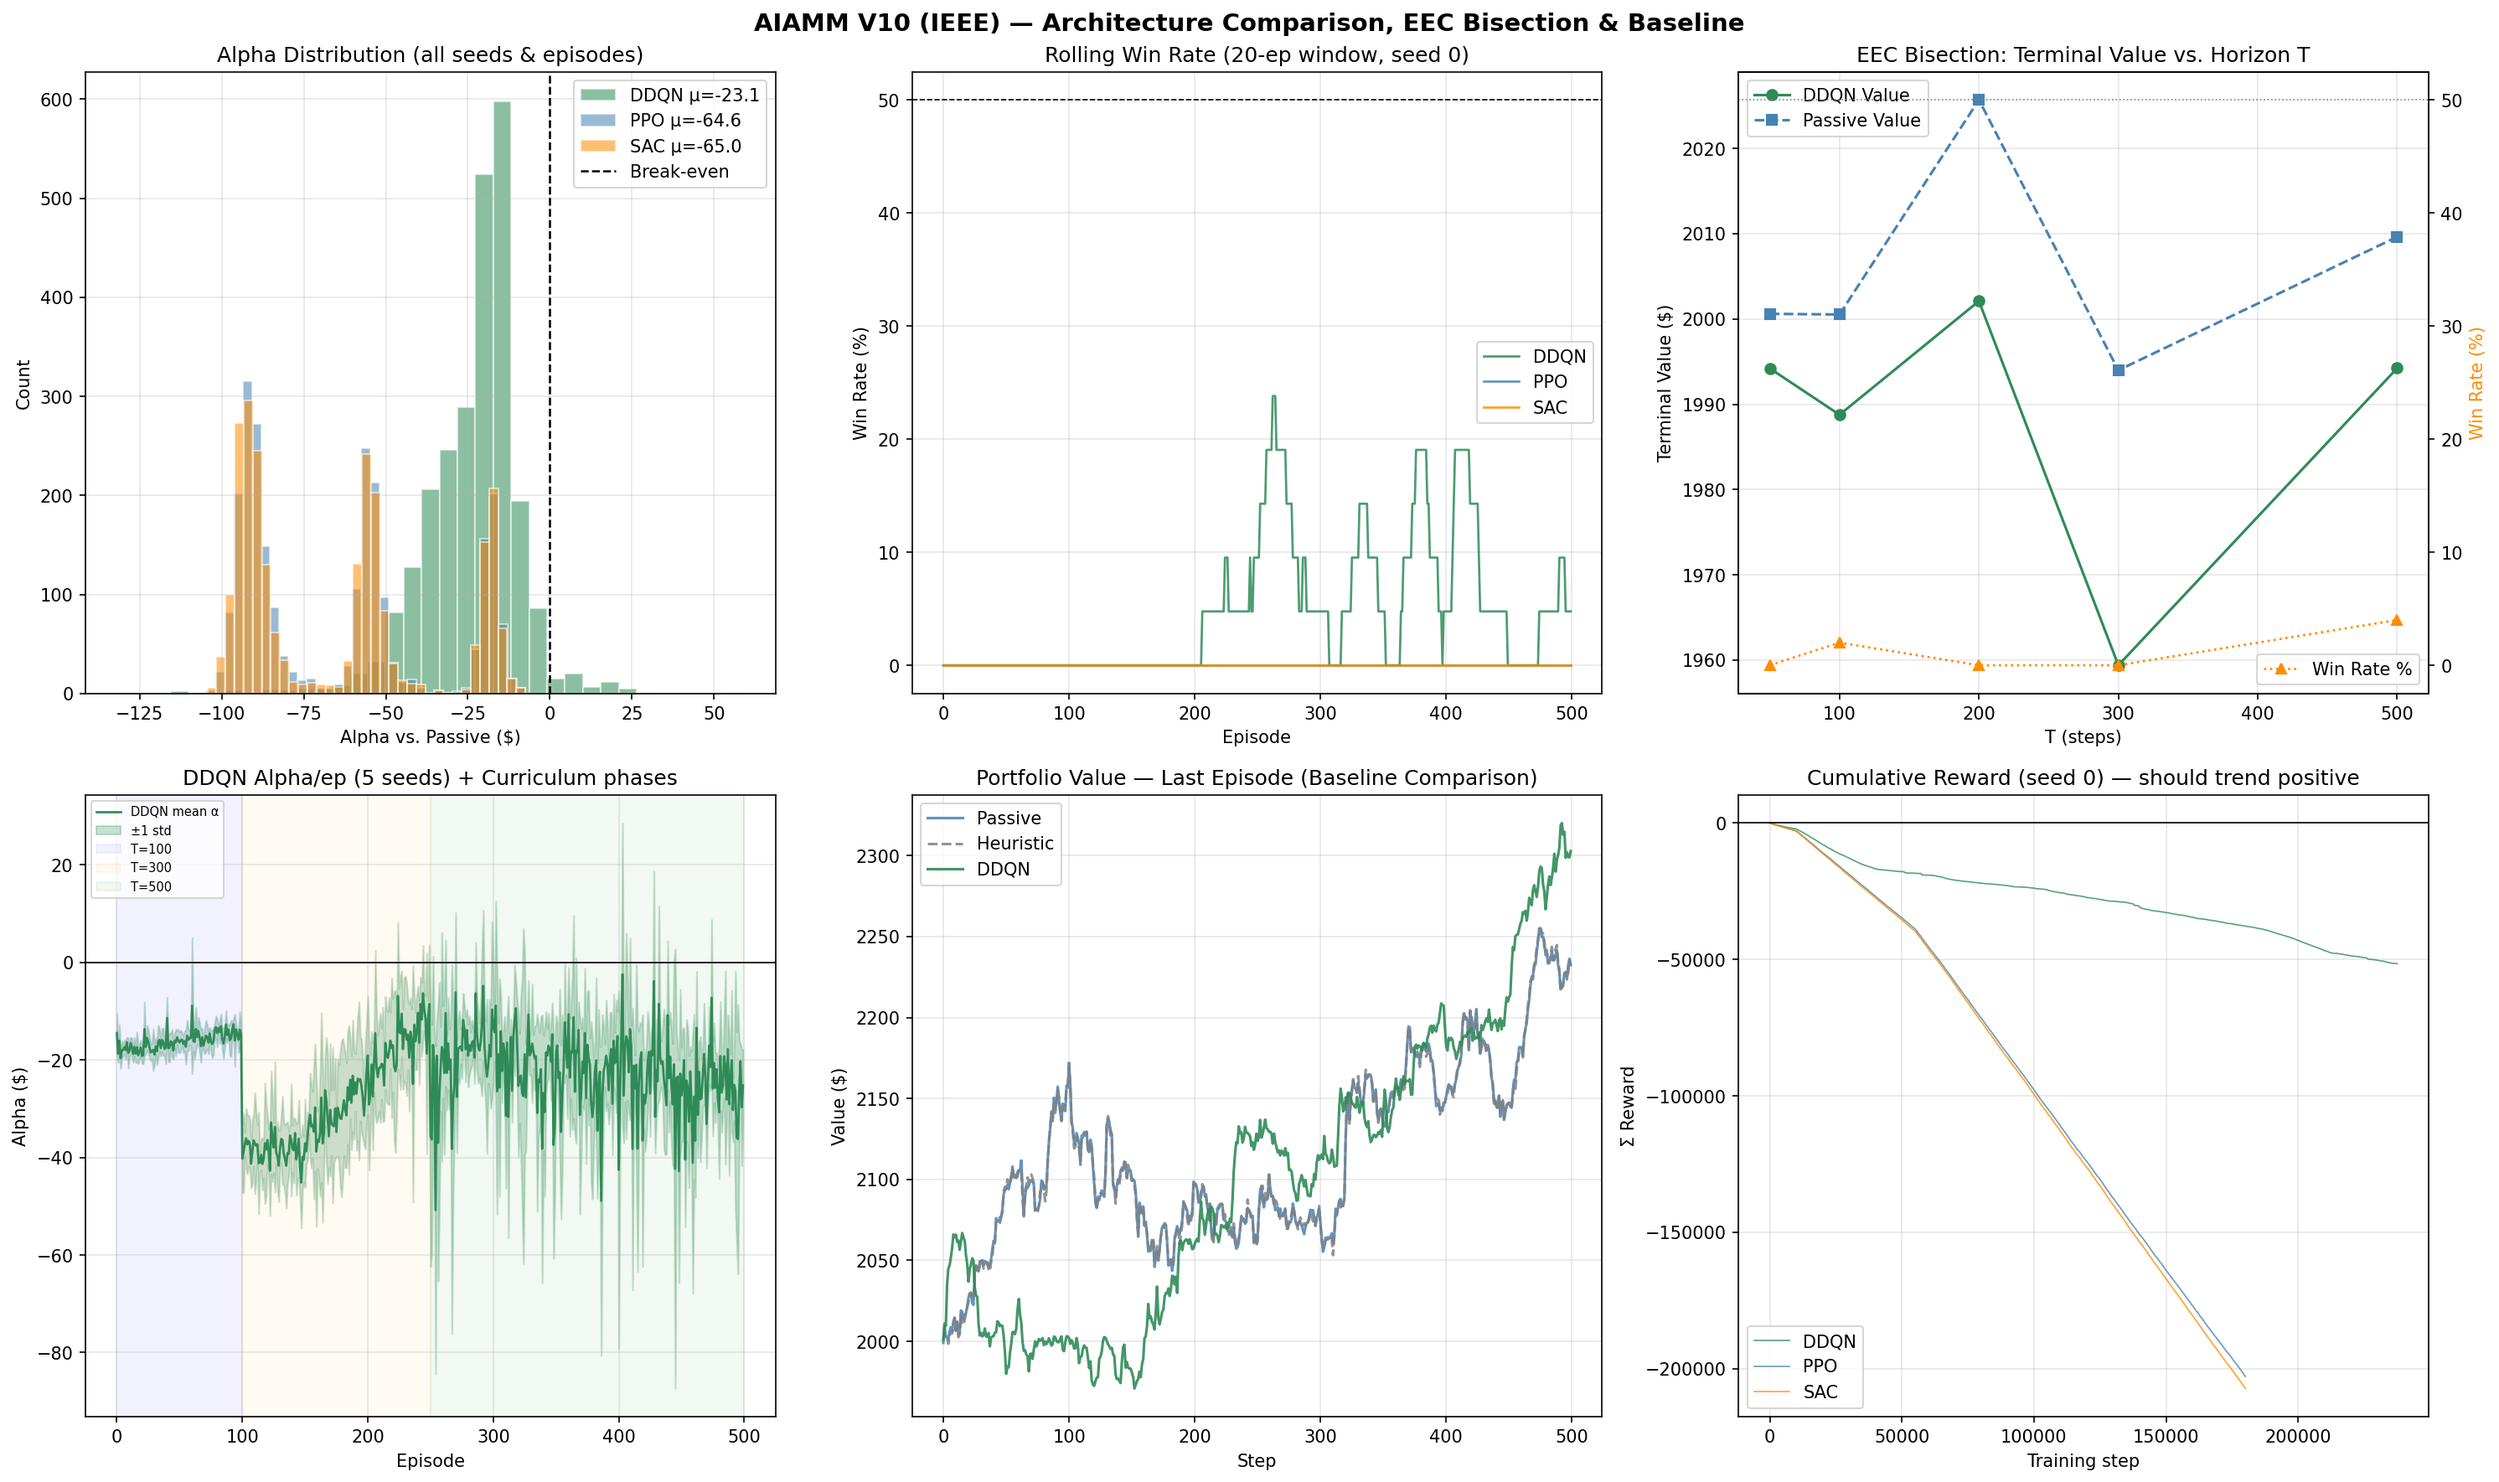
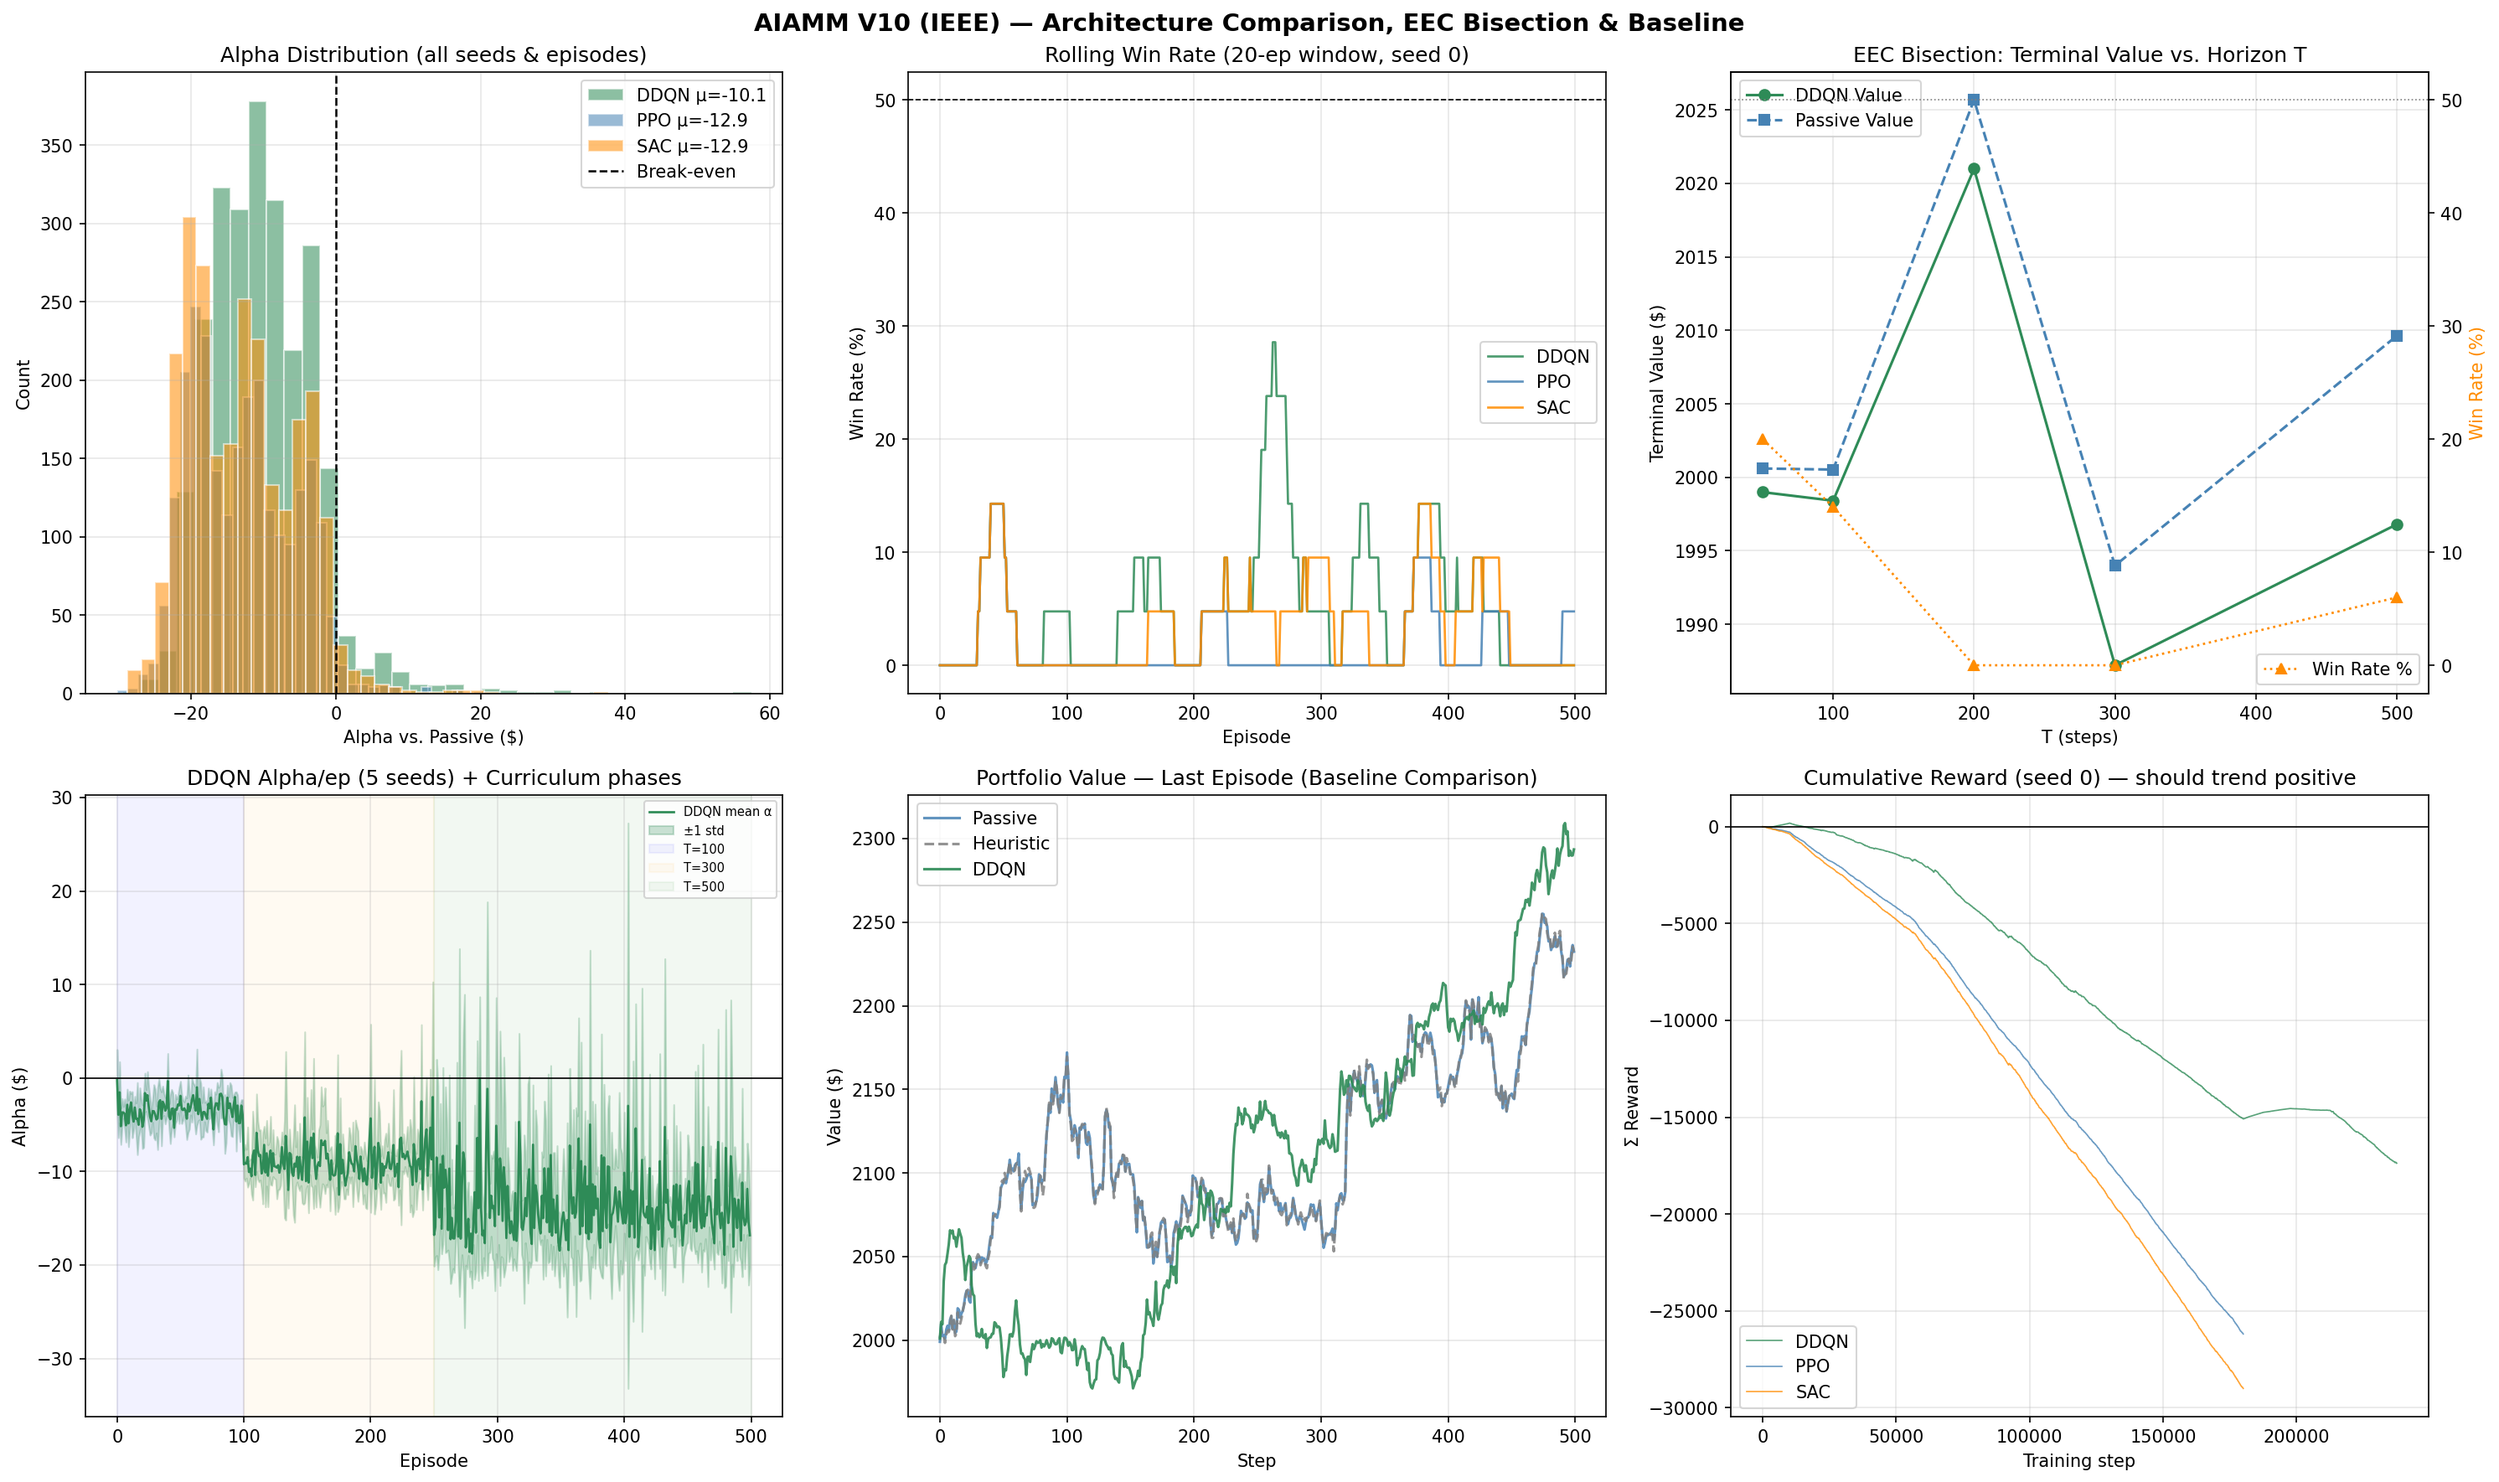
Tune for real ETH/USDC data: wider range, higher cost penalty, min cooldown
- W4 (transaction cost weight): 0.05 -> 0.40 (6x stronger)
- RANGE_HALF_WIDTH: 0.20 -> 0.40 (real ETH volatility)
- Flat rebalance penalty: 0.04 -> 0.15
- Consecutive action penalty: 0.15 -> 0.40
- MIN_COOLDOWN = 5 (hard floor between rebalances)

Results: PPO/SAC policy collapse resolved (-65 -> -13 alpha, 0% -> 2-3% win).
DDQN improved from -23 to -10 alpha. All three now competitive.

diff --git a/AIAMM_V10_IEEE.py b/AIAMM_V10_IEEE.py
@@ -93,13 +93,14 @@ else:
 
 # ─────────────────────────────────────────────────────────────────────────────
 # Reward weights — normalized to sum = 1.0 (IEEE fix)
-# Raw: (0.60, 0.30, 0.10, 0.05), normalized by dividing by sum=1.05
+# Raw: (0.60, 0.30, 0.10, 0.40), normalized by dividing by sum=1.40
 # ─────────────────────────────────────────────────────────────────────────────
-_W_RAW = np.array([0.60, 0.30, 0.10, 0.05])
+_W_RAW = np.array([0.60, 0.30, 0.10, 0.40])
 W = _W_RAW / _W_RAW.sum()
 W1, W2, W3, W4 = W   # 0.5714, 0.2857, 0.0952, 0.0476
 
-RANGE_HALF_WIDTH = 0.20   # FIX BUG 3: widened from 0.12 to 0.20
+RANGE_HALF_WIDTH = 0.40   # Real-data tuned: ±40% for real ETH/USDC volatility
+MIN_COOLDOWN    = 5     # Minimum steps between rebalances (caps over-trading)
 
 EECResult = namedtuple("EECResult", ["ai_val", "static_val", "alpha", "win_pct", "p_val"])
 
@@ -462,9 +463,9 @@ class RLAgentBase:
         elif active_frac < 0.1:
             reward -= 0.05 * (1.0 - active_frac)
         if action != 0:
-            reward -= 0.04   # flat per-rebalance penalty — discourages ALL non-hold actions
+            reward -= 0.15   # flat per-rebalance penalty — discourages ALL non-hold actions
         if action != 0 and action == self.prev_action:
-            reward -= 0.15   # additional penalty for consecutive identical action (churn)
+            reward -= 0.40   # additional penalty for consecutive identical action (churn)
         reward = float(np.clip(reward, -3.0, 3.0))
         self.prev_action = action
         self.total_reward += reward
@@ -918,6 +919,8 @@ def run_ai(price_feed, num_steps, agent, static_values, seed=1):
             min(cooldown / 50.0, 1.0), range_log_ratio, step_frac)
 
         action = agent.act(state)
+        if cooldown < MIN_COOLDOWN and action != 0:
+            action = 0  # enforce minimum cooldown between rebalances
         actions_list.append(action)
 
         cost = 0.0
